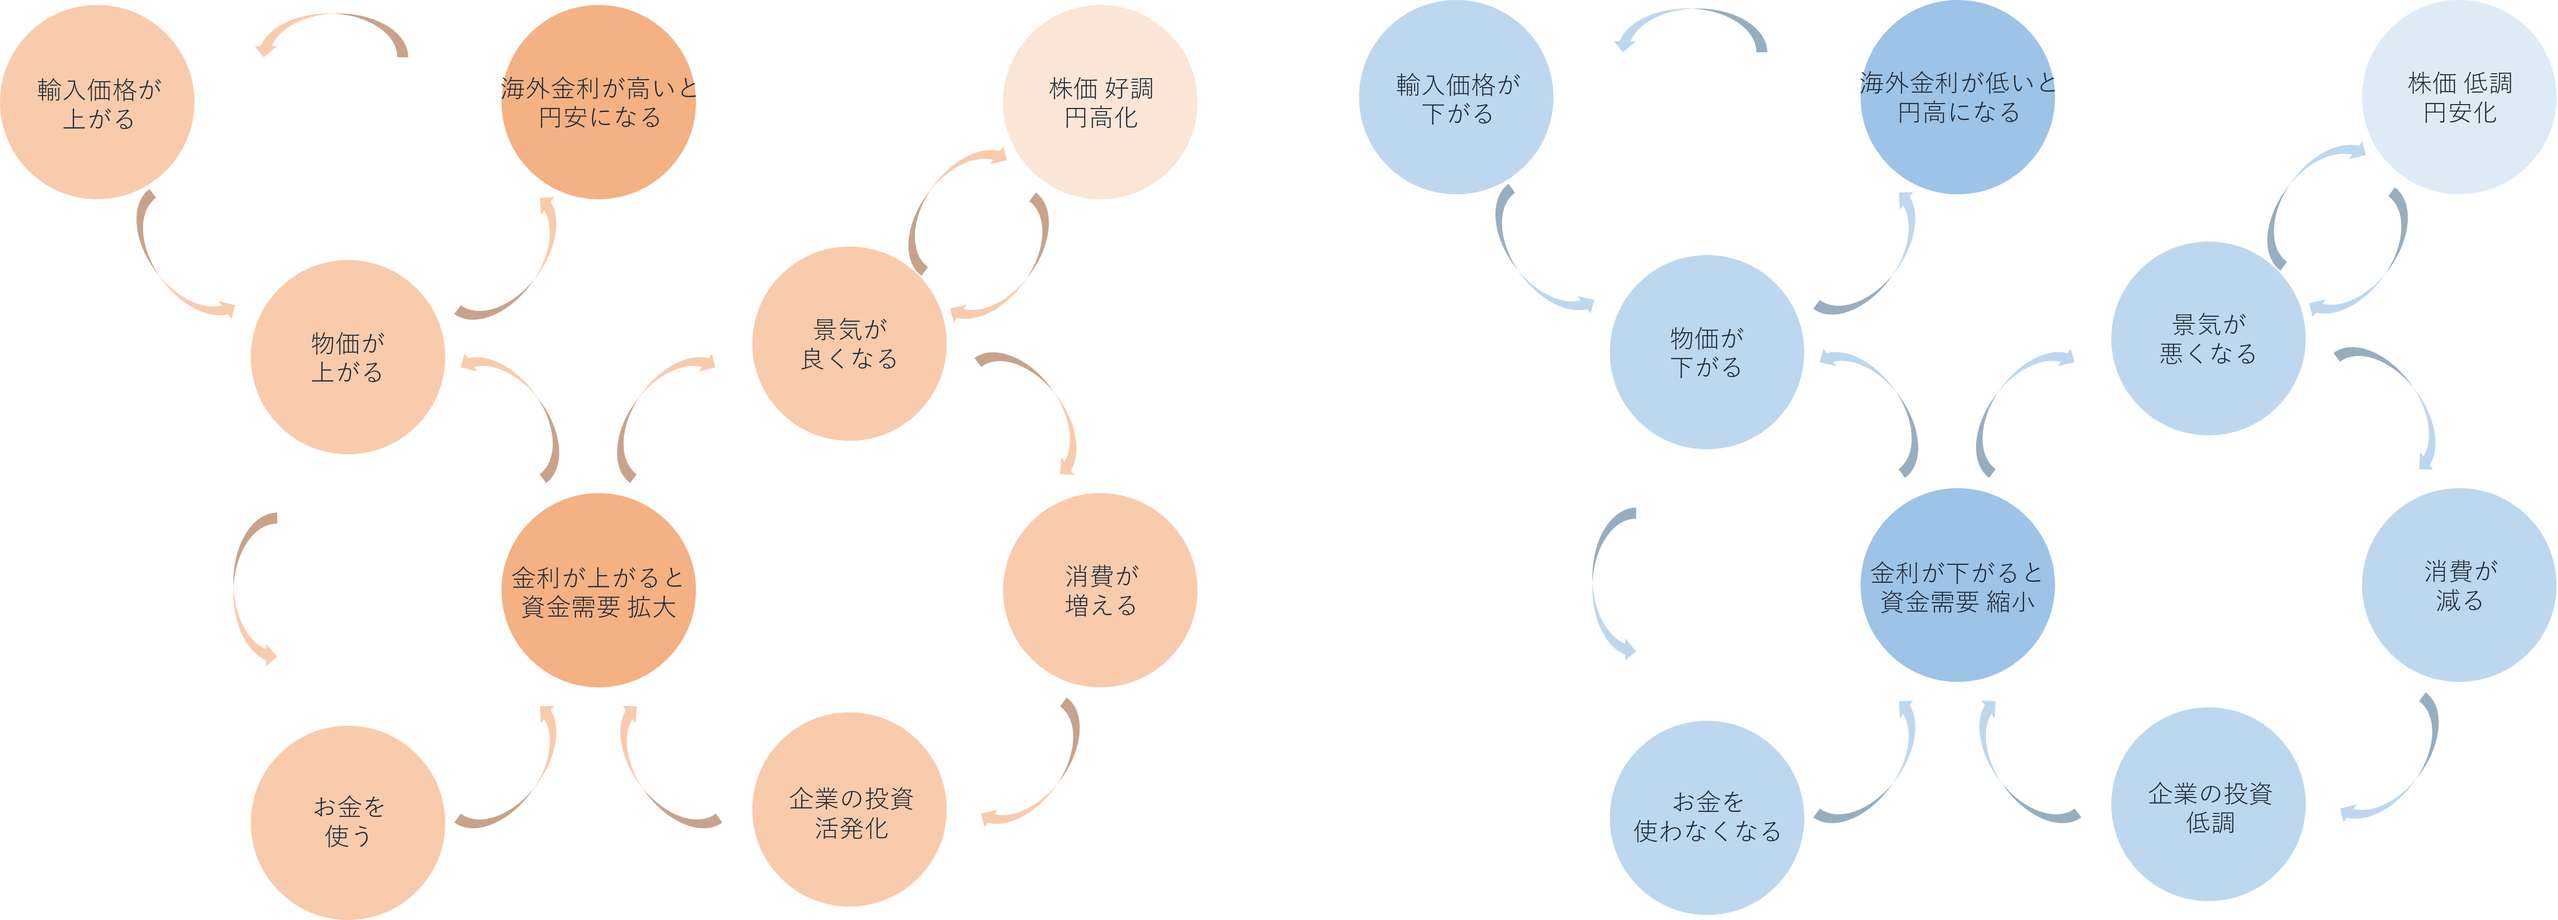
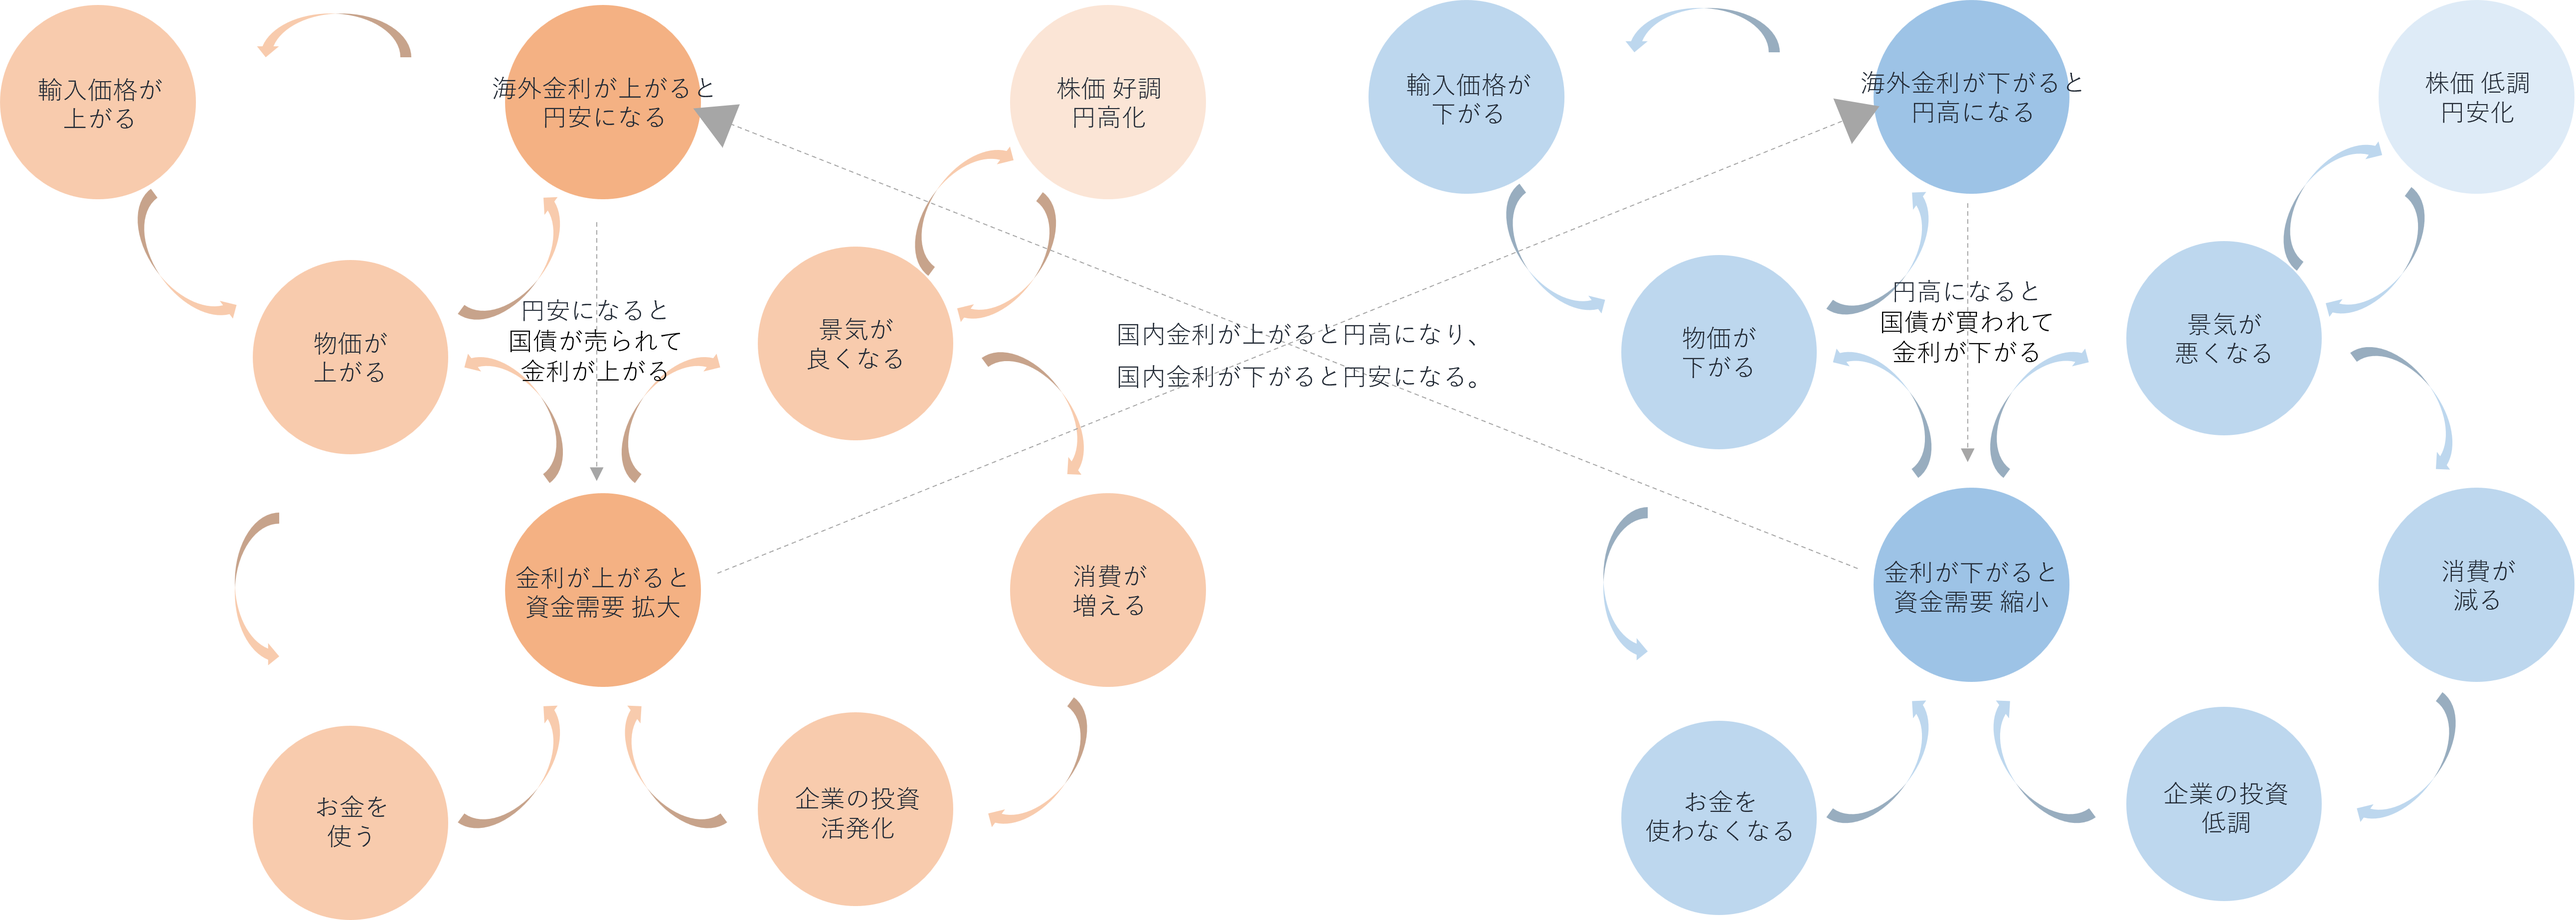
20251124公開予定分_1-3の図などを更新

diff --git a/articles/20251124_idea_finance.md b/articles/20251124_idea_finance.md
@@ -75,6 +75,7 @@ published: true
 - **為替市場（FX）**：通貨を交換する市場です。金利差が価格に直結します。
 - **債券市場**：国や企業の“借金の証書”を売買する市場です。特に国債は次の特徴があります。
   - 金利が上がると債券価格は下がる（逆相関）
+  →金利上昇期に債券を運用するなら、期間が短いものを選ぶのが良い
   - 国債の利回りは**その国の信用を映す**重要な指標であり、
   信用力が高いと金利は低くなり、信用力が低いと金利は高くなる
 - **コモディティ**：特に**ゴールド**は利息を生まない一方、**価値の保存手段**（**安全資産**）として
@@ -124,7 +125,7 @@ published: true
 
 
 ### 2-5.為替と金利と物価の関係
-通貨の保有者は、より高い金利の通貨へ資金を移動させるため、金利差が為替レートに直接影響します。
+通貨の保有者は、より高い金利の通貨へ資金を移動させるため、金利差が為替レートに直接影響します。日本に特に影響を及ぼす海外金利は、**米国の10年国債とFFレート、ユーロを代表するドイツの10年国債**です。
 - **海外金利 ＞ 国内金利** の場合：外国通貨が買われやすくなり**円安**になる
 - **海外金利 ＜ 国内金利** の場合：円が買われやすくなり**円高**になる
 
